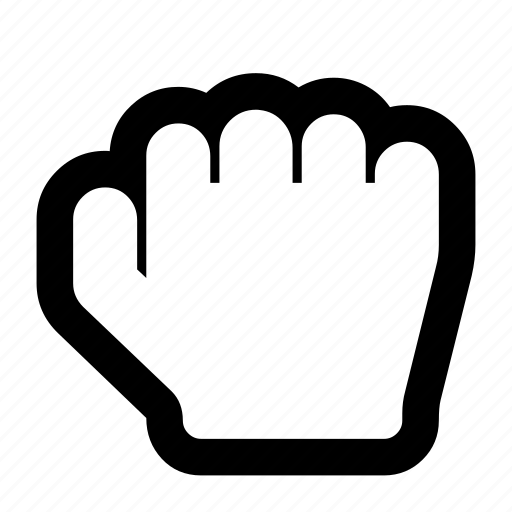
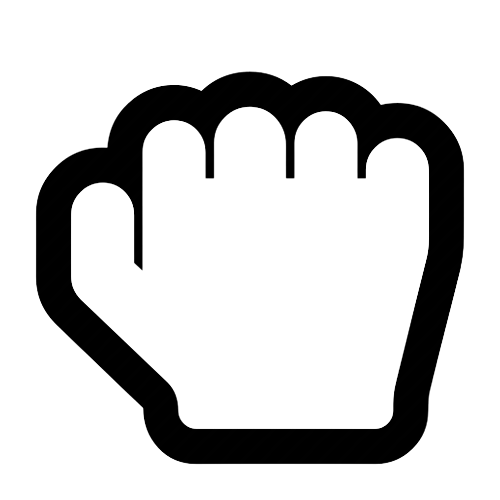
add label to each hand image, changed border color of hand images and amended rock image

diff --git a/index.html b/index.html
@@ -44,26 +44,31 @@
             <div class="hands-img">
                 <img data-type="rock" src="assets/images/rock-hand-icon.png" alt="rock hand icon">
             </div>
+            <p>Rock</p>
         </div>
         <div class="hands" id="paper">
             <div class="hands-img">
                 <img data-type="paper" src="assets/images/paper-hand-icon.png" alt="paper hand icon">
             </div>
+            <p>Paper</p>
         </div>
         <div class="hands" id="scissors">
             <div class="hands-img">
                 <img data-type="scissors" src="assets/images/scissors-hand-icon.png" alt="scissors hand icon">
             </div>
+            <p>Scissors</p>
         </div>
         <div class="hands" id="lizard">
             <div class="hands-img">
                 <img data-type="lizard" src="assets/images/lizard-hand-icon.png" alt="lizard hand icon">
             </div>
+            <p>Lizard</p>
         </div>
         <div class="hands" id="spock">
             <div class="hands-img">
                 <img data-type="spock" src="assets/images/spock-hand-icon.png" alt="spock hand icon">
             </div>
+            <p>Spock</p>
         </div>
 
         <div id="play-game-btn">

diff --git a/assets/js/script.js b/assets/js/script.js
@@ -16,7 +16,8 @@ document.getElementById('play').addEventListener('click', play)
 
 function rock() {
     document.getElementById('users-pick').innerHTML = `<img data-type="rock" src="assets/images/rock-hand-icon.png" alt="rock hand icon">`;
-    document.getElementById('random-pick').innerHTML = ""
+    document.getElementById('random-pick').innerHTML = "";
+    document.getElementById('rock').style.borderColor= "green"
 }
 
 function paper() {

diff --git a/assets/css/style.css b/assets/css/style.css
@@ -88,7 +88,7 @@ h1 {
     display: inline-block;
     border-radius: 150px;
     margin: 20px;
-    border: 5px solid green;
+    border: 5px solid lightgrey;
     /* box-sizing:border-box; */
 }
 
